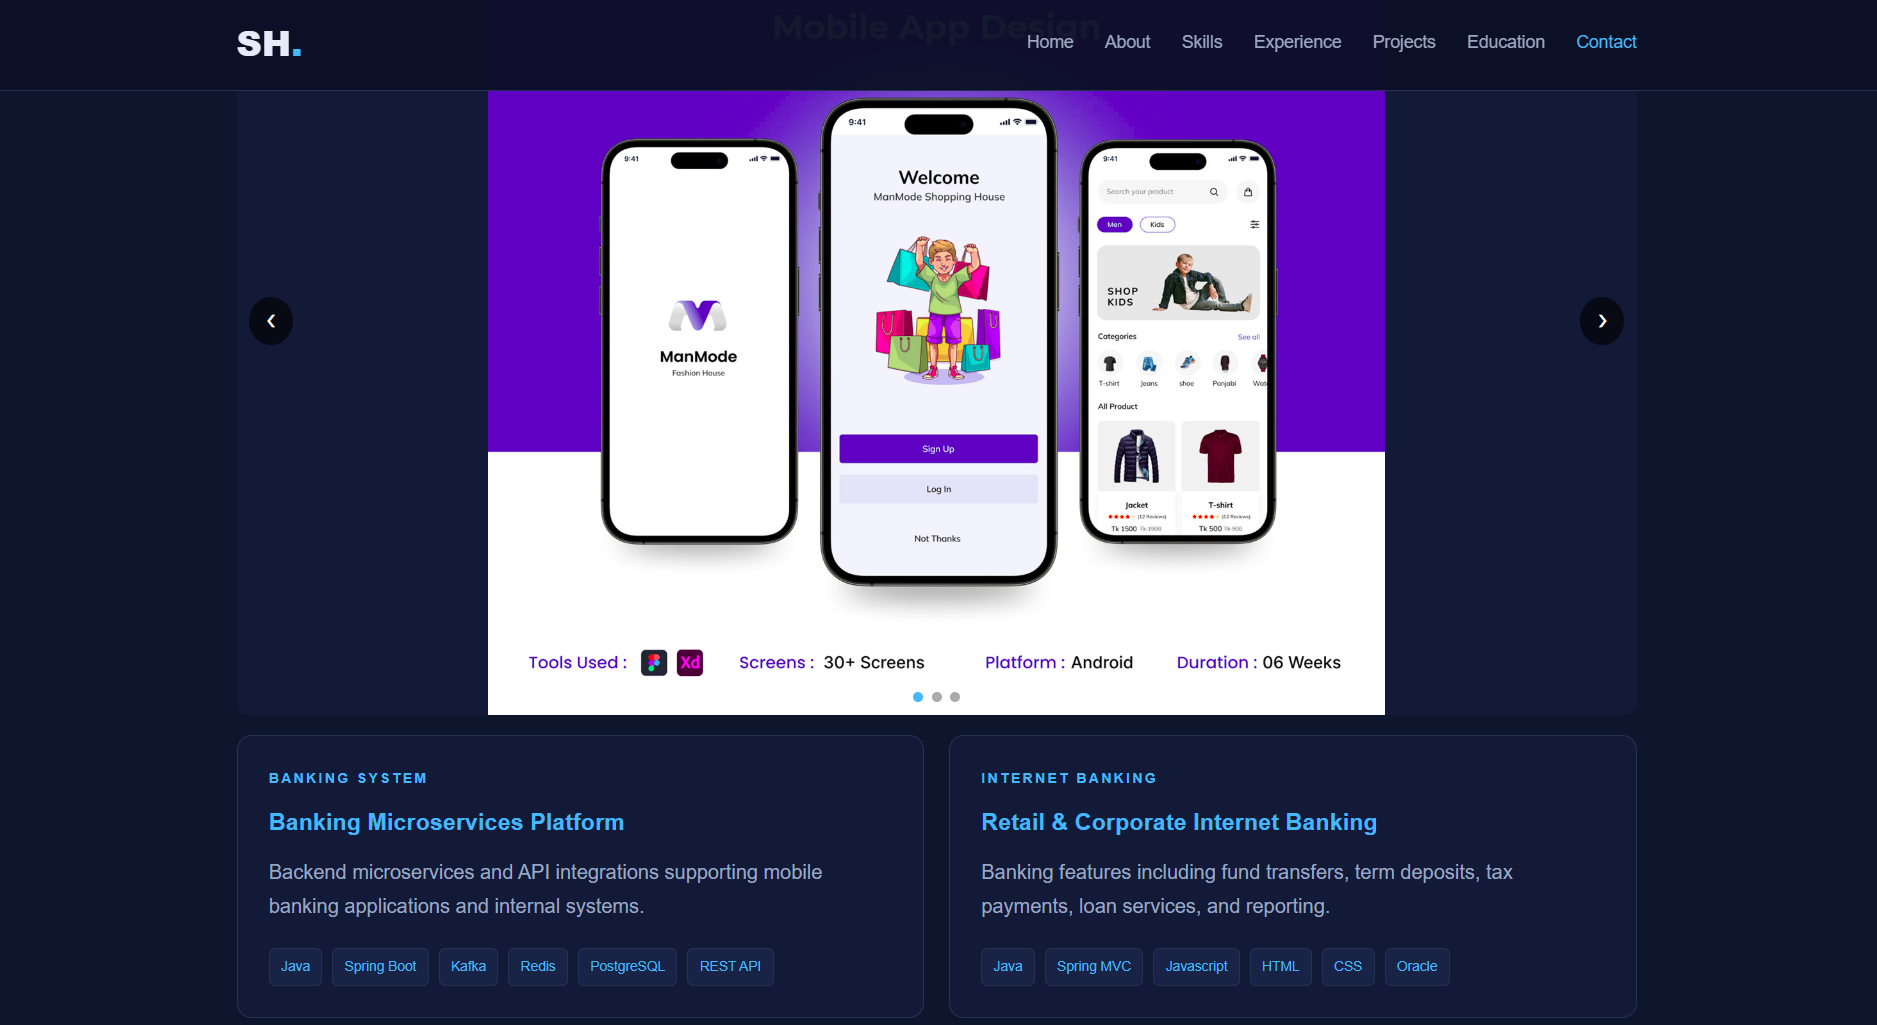
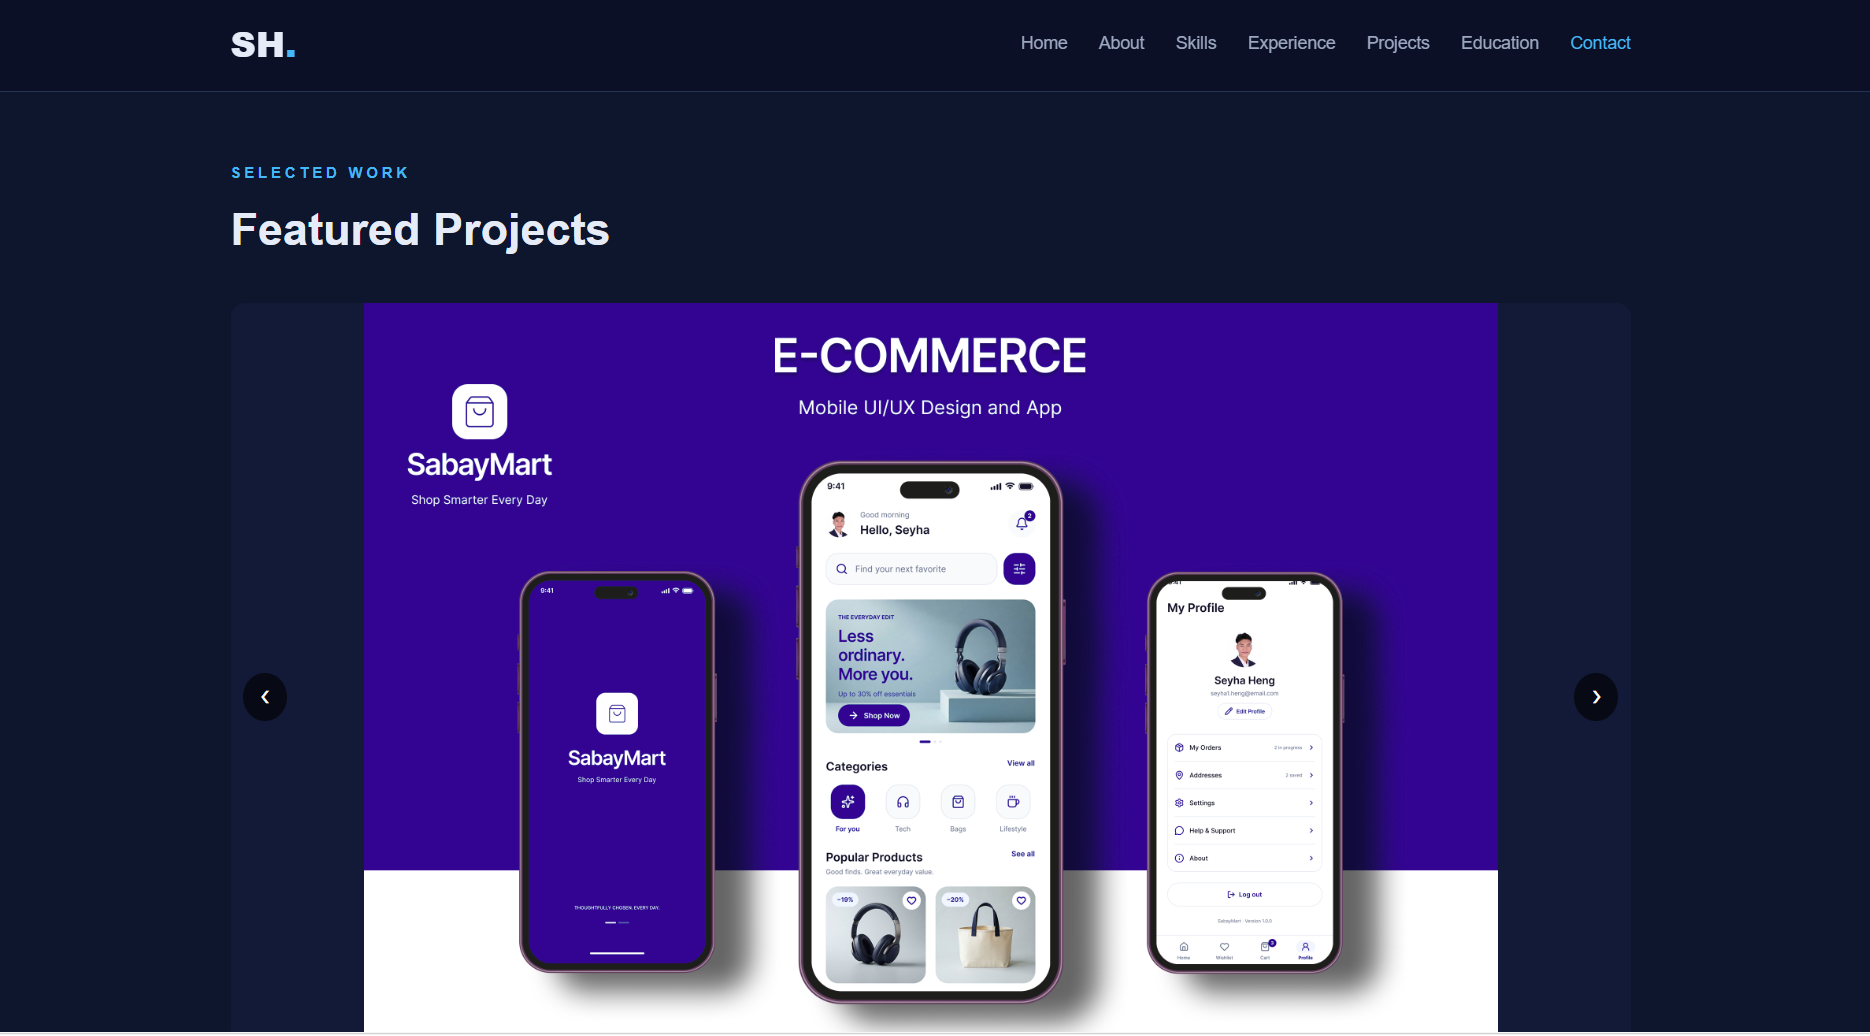
update image profile

diff --git a/index.html b/index.html
@@ -281,7 +281,7 @@
 
             <div class="project-slider">
                 <div class="slides">
-                    <img src="images/project/e_shop_kh.jpg" alt="Banking transaction screen">
+                    <img src="images/project/smart_mart.png" alt="Banking transaction screen">
                     <img src="images/project/jib_app_en.png" alt="Banking Screen">
                     <img src="images/project/web.png" alt="Web Screen">
                     <img src="images/project/rib.jpg" alt="Banking dashboard">
